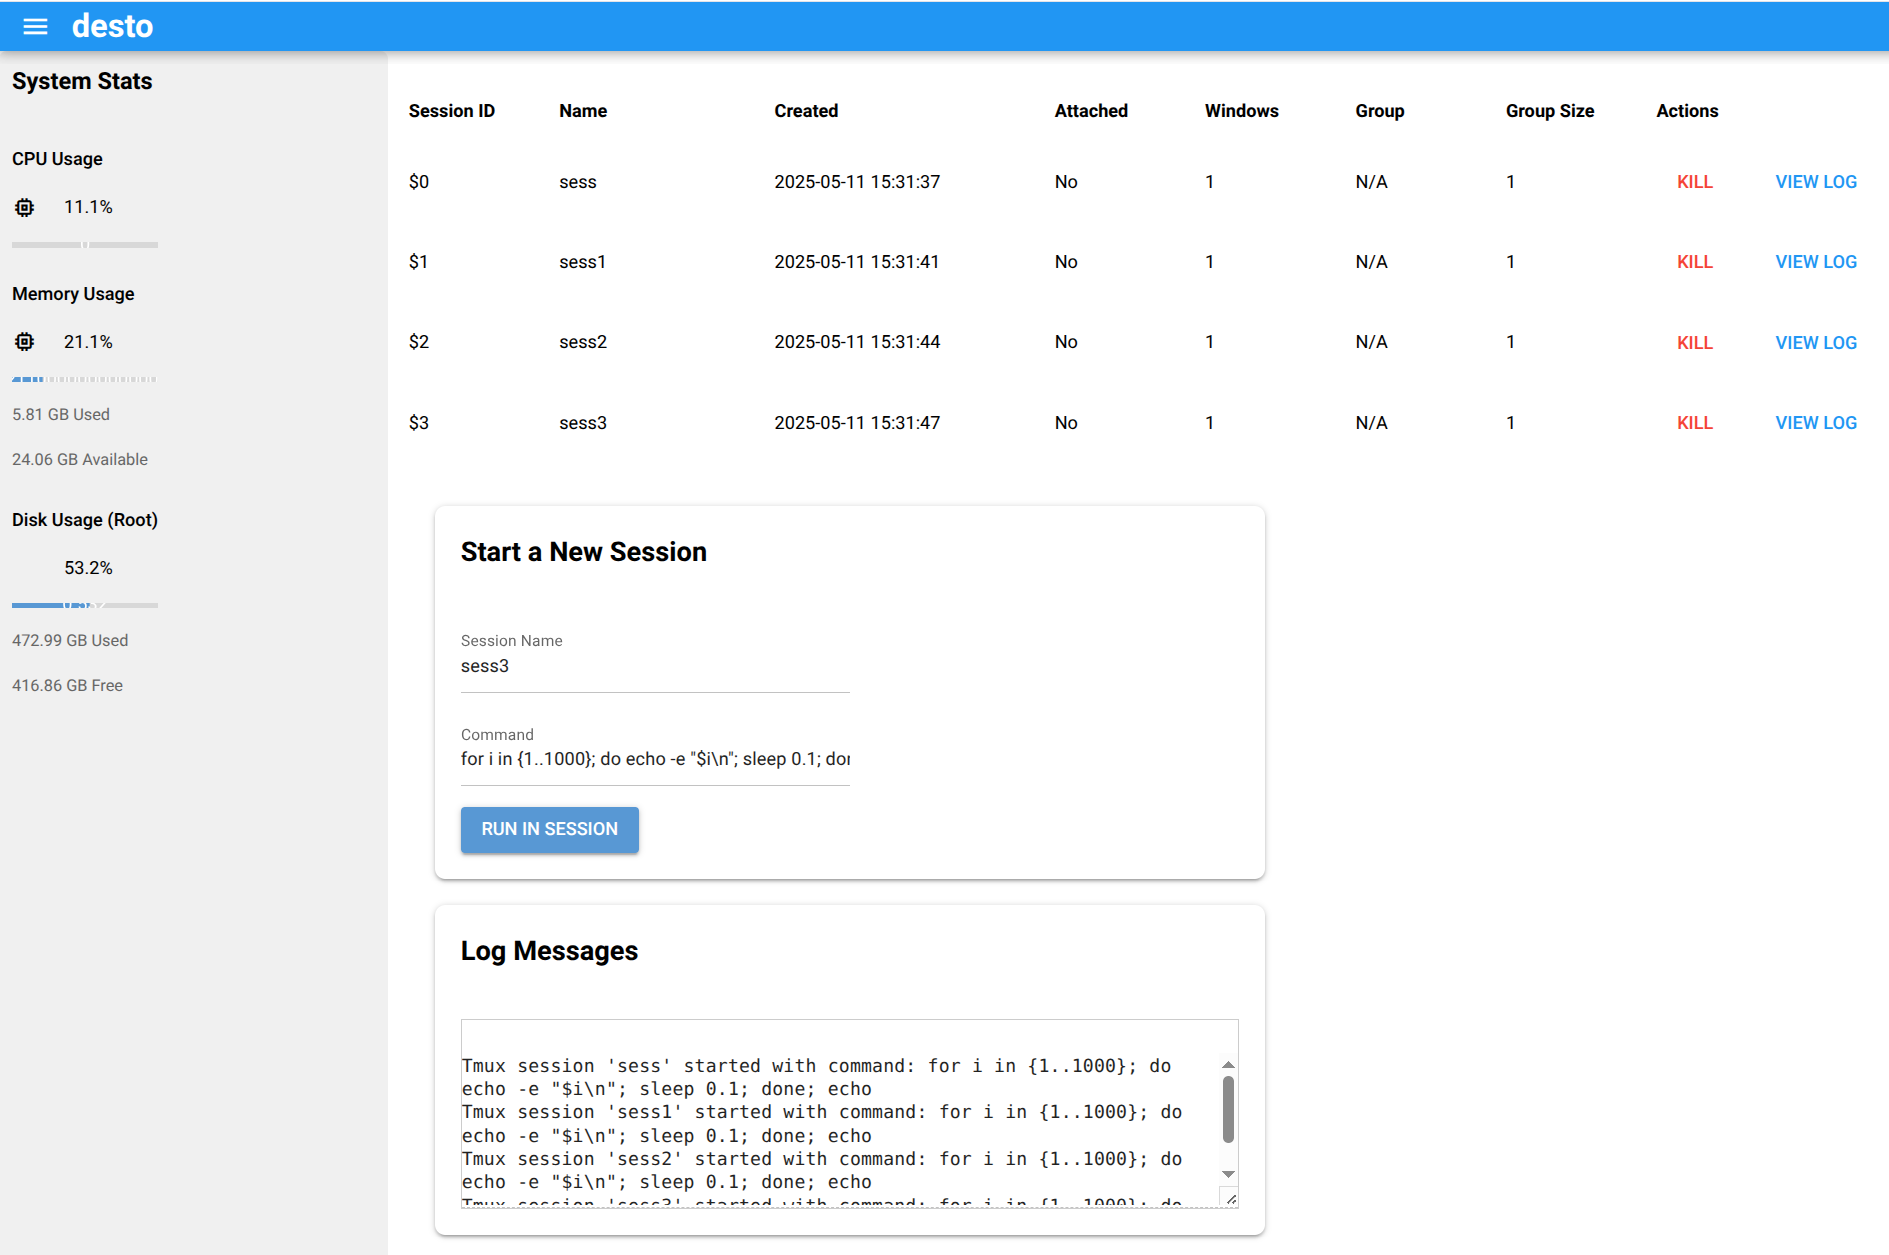
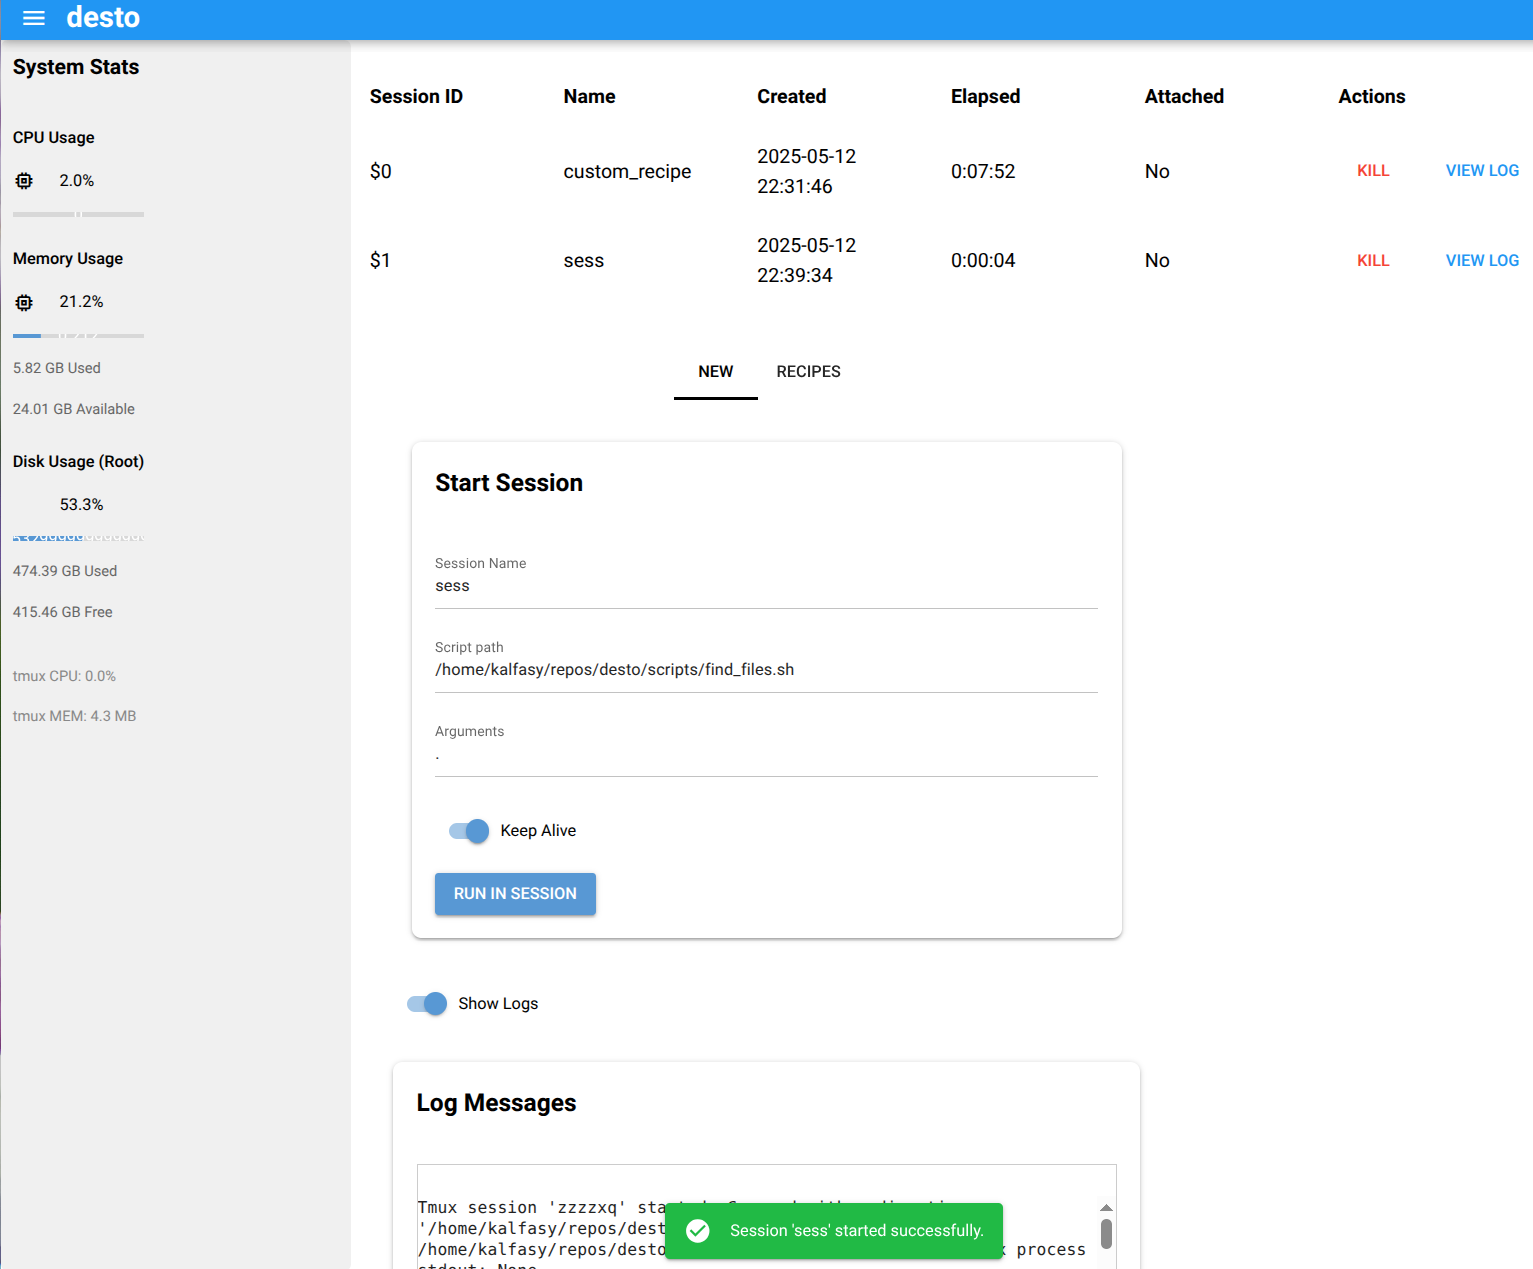
Update README.md: enhance content and structure; add new features and usage examples Add custom recipe image and update dashboard screenshot

diff --git a/README.md b/README.md
@@ -1,70 +1,124 @@
 # desto
 
-desto is a simple and intuitive dashboard for managing and monitoring `tmux` sessions. It provides a user-friendly interface to start, view, and kill `tmux` sessions, as well as monitor system stats and view session logs.
+**desto** is a modern, intuitive dashboard for managing and monitoring your `tmux` sessions. It provides a user-friendly web interface to start, view, and kill `tmux` sessions, monitor system stats, run custom or predefined scripts, and view live logs—all from your browser.
 
-
-## Dashboard
-![Dashboard Screenshot](images/dashboard.png "Desto Dashboard")
-
-## Usage
-
-For example, 
-* Type "sess" as the Session Name and in the Command field type:  
-`'for i in {1..1000}; do echo -e "$i\\n"; sleep 0.1; done; echo'`  
-* Click `RUN IN SESSION` and see it appear on top of the dashboard.  
-* You can check its logs by clicking on `VIEW LOG` or `KILL` it.
+---
 
 ## Features
 
-- **Session Management**: Start, view, and kill `tmux` sessions with ease.
-- **System Monitoring**: Real-time CPU, memory, and disk usage stats.
-- **Log Viewer**: View live session logs in a clean, scrollable interface.
+- **Session Management**: Start, view, and kill `tmux` sessions with a single click.
+- **System Monitoring**: Real-time CPU, memory, and disk usage stats in the sidebar.
+- **Recipes & Custom Scripts**: Run predefined "recipes" (like recursive pattern search) or write your own bash scripts directly in the browser.
+- **Keep Alive Option**: Optionally keep sessions running after your script finishes.
+- **Live Log Viewer**: View live logs for each session in a scrollable, syntax-highlighted interface.
+- **Responsive UI**: Clean, modern interface built with [NiceGUI](https://nicegui.io/).
+- **Persistent Logs & Scripts**: All logs and scripts are stored in dedicated folders for easy access and reproducibility.
 
-## Installation
+---
+## Dashboard
 
-1. **Install `tmux`**:
-    <details>
-    <summary>Instructions for different package managers</summary>
 
-    - For Debian/Ubuntu:
-      ```bash
-      sudo apt install tmux
-      ```
+<div align="left">
 
-    - For Almalinux/Fedora:
-      ```bash
-      sudo dnf install tmux
-      ```
+**Dashboard Overview**
 
-    - For Arch Linux:
-      ```bash
-      sudo pacman -S tmux
-      ```
+<img src="images/dashboard.png" alt="Dashboard Screenshot" title="Desto Dashboard" width="700" style="border:2px solid #ccc; border-radius:6px; margin-bottom:24px;"/>
 
-    </details>
 
-2. **Install `desto`**:
-    <details>
-    <summary>Installation Steps</summary>
+**Execute Custom or Pre-defined Recipes**
 
-    - By adding it to your project:
-      ```bash
-      uv add desto
-      ```
+<img src="images/custom_recipe.png" alt="Custom Recipe" title="Custom Recipe" width="300" style="border:2px solid #ccc; border-radius:6px;"/>
 
-    - Using `pip`:
-      ```bash
-      pip install desto
-      OR
-      uv pip install desto
-      ```
+</div>
 
-    </details>
+---
 
-3. **Run the Application**:  
-Simply type `desto` in your terminal from any directory to start the application.
+## Quick Start
 
-4. **View on the browser**:  
-You will see the message:  
-    >NiceGUI ready to go on http://localhost:8088, and http://192.168.0.114:8088
-    Opening in existing browser session.
+1. **Install `tmux`**  
+   <details>
+   <summary>Instructions for different package managers</summary>
+
+   - **Debian/Ubuntu**  
+     ```bash
+     sudo apt install tmux
+     ```
+   - **Almalinux/Fedora**  
+     ```bash
+     sudo dnf install tmux
+     ```
+   - **Arch Linux**  
+     ```bash
+     sudo pacman -S tmux
+     ```
+   </details>
+
+2. **Install `desto`**  
+   <details>
+   <summary>Installation Steps</summary>
+
+   - With [uv](https://github.com/astral-sh/uv):
+     ```bash
+     uv add desto
+     ```
+   - With pip:
+     ```bash
+     pip install desto
+     # or
+     uv pip install desto
+     ```
+   </details>
+
+3. **Run the Application**  
+   ```bash
+   desto
+   ```
+
+4. **Open in your browser**  
+   After starting, visit [http://localhost:8088](http://localhost:8088) (or the address shown in your terminal).
+
+---
+
+## Usage Examples
+
+- **Start a Custom Session**  
+  - Enter a session name, a path to a script and any arguments the script requires.
+  - Click **Run in Session** to launch it in tmux.
+  - The session appears in the dashboard; view logs or kill it anytime.
+
+- **Use a Recipe or Custom Script**  
+  - Switch to the **Recipes** tab.
+  - Select a predefined recipe or "Custom Recipe" to write your own bash script.
+  - Fill in any required arguments, set a session name, and optionally enable "Keep Alive".
+  - Click **Execute Recipe** to run it in a new tmux session.
+
+- **Monitor System Stats**  
+  - Sidebar displays live CPU, memory, disk, and tmux server resource usage.
+
+- **View Logs**  
+  - Click **View Log** next to any session to see its latest output.
+
+---
+
+## File Structure
+
+- **desto_logs/**: All session logs are stored here.
+- **desto_scripts/**: Scripts run via recipes or custom scripts are saved here.
+
+---
+
+## Requirements
+
+- Python 3.11+
+- [tmux](https://github.com/tmux/tmux)
+- [NiceGUI](https://nicegui.io/)
+
+---
+
+## License
+
+MIT License
+
+---
+
+**desto** makes handling tmux sessions approachable for everyone—no terminal gymnastics required!
